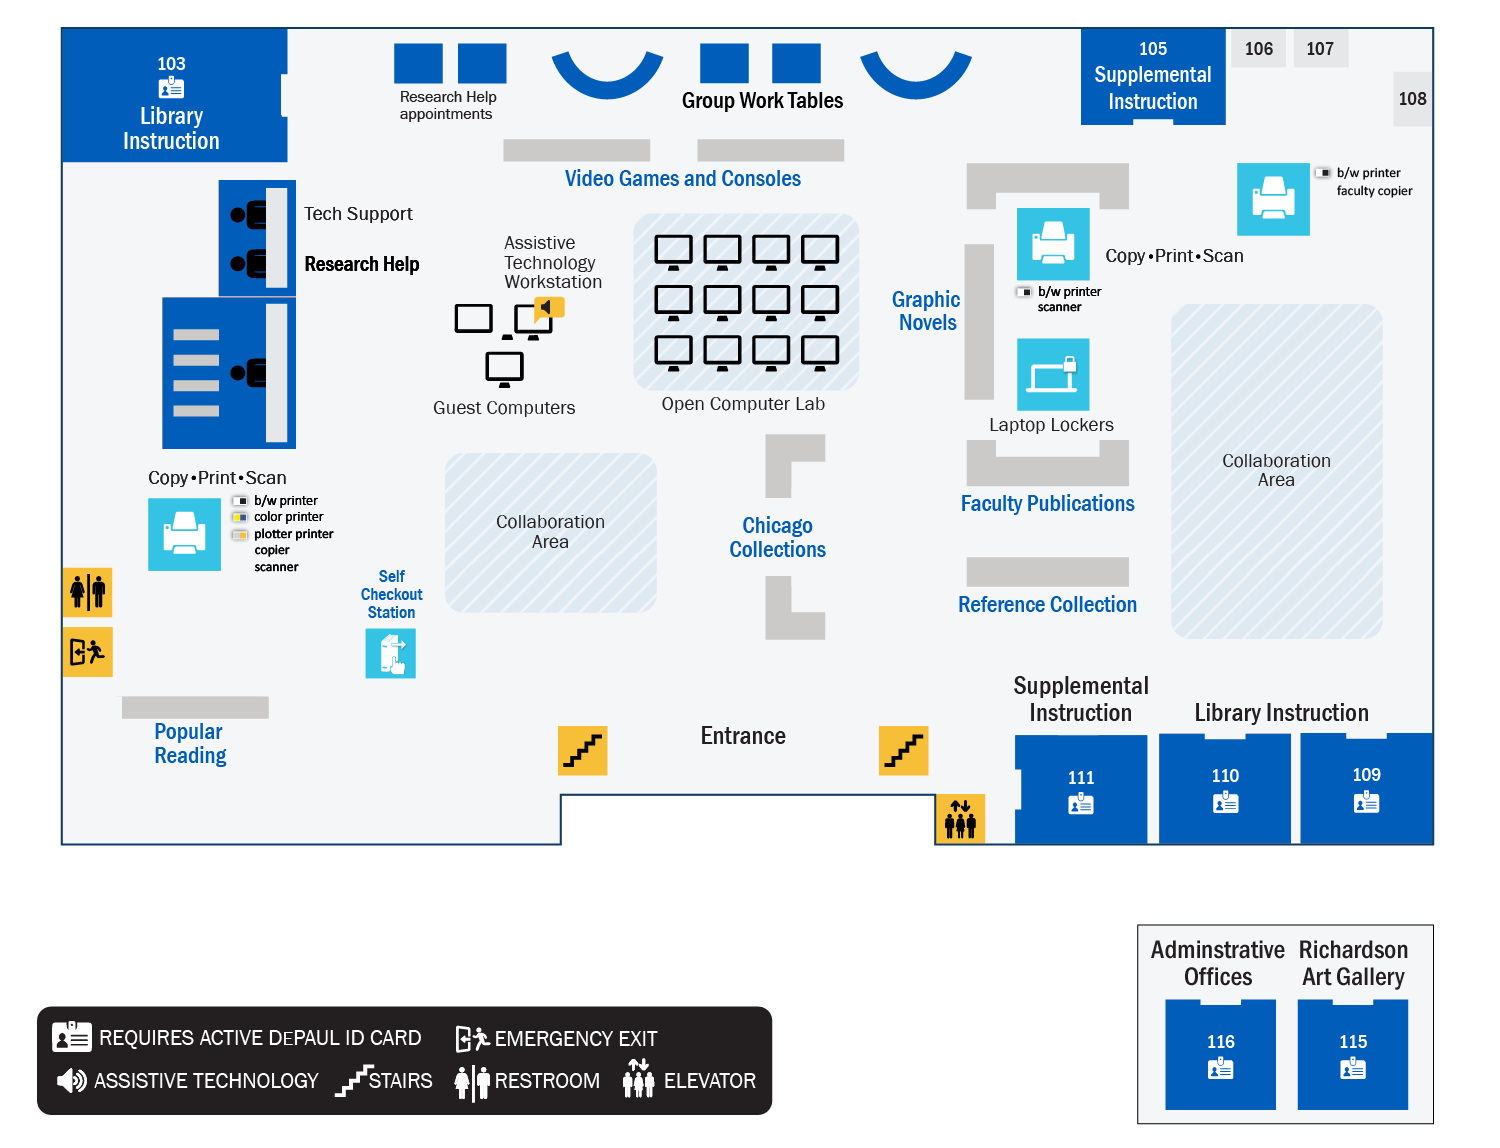
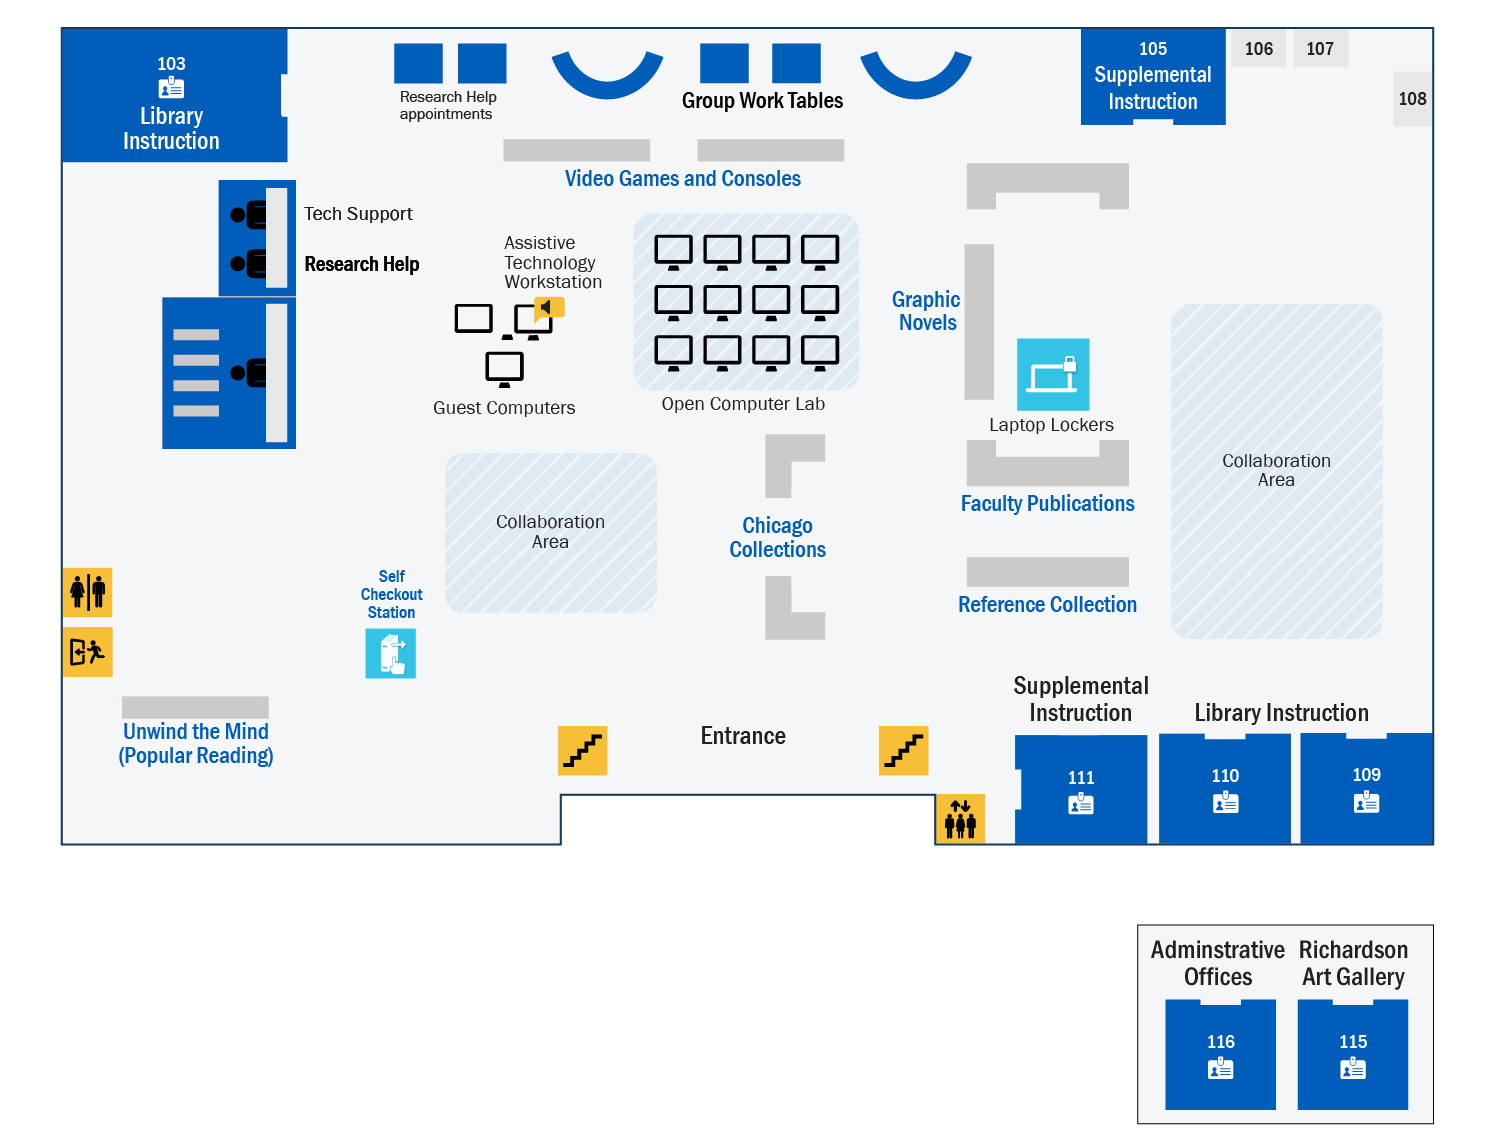
finished -- check in the morning

diff --git a/maps.html b/maps.html
@@ -156,6 +156,7 @@
 					<div class="info">
 						<h3>Spaces</h3>
 							<ul>
+								<li class="li"><a href="#/" onClick="show_info_panel('1_admin');">Administrative Offices</a></li>
 								<li class="li"><a href="#/" onClick="show_info_panel('4_audiovideo');">Audio-Video Viewing & Listening</a></li>
                                 <li class="li"><a href="#/" onClick="show_info_panel('2_core');">Collaborative Research Enviroment</a> </li>
                                 <li class="li"><a href="#/" onClick="show_info_panel('groupstudyrooms');">Group Study Areas (reservable)</a> </li>
@@ -167,6 +168,7 @@
 								<li class="li"><a href="#/" onClick="show_info_panel('quietstudyzones');">Quiet Study Zones</a> </li>
                                 <li class="li"><a href="#/" onClick="show_info_panel('2_researchinformation');">Research & Instruction Services</a> </li>
                                 <li class="li"><a href="#/" onClick="show_info_panel('bathrooms');">Restrooms</a> </li>
+								<li class="li"><a href="#/" onClick="show_info_panel('1_gallery');">Richrdson Art Gallery</a></li>
 								<li class="li"><a href="#/" onClick="show_info_panel('3_300room');">Room 300</a></li>
 								<li class="li"><a href="#/" onClick="show_info_panel('4_stvincent');">St. Vincent DePaul Room</a> </li>
                                 <li class="li"><a href="#/" onClick="show_info_panel('2_studios');">Studios A-G</a> </li>
@@ -202,10 +204,10 @@
                                 <li class="li"><a href="#/" onClick="show_info_panel('2_audiovisual');">Media (CDs, Videos, Microforms)</a> </li>
                                 <li class="li"><a href="#/" onClick="show_info_panel('4_musicscores');">Music Scores</a> </li>
 								<li class="li"><a href="#/" onClick="show_info_panel('2_periodicals');">Periodicals</a> </li>
-                                <li class="li"><a href="#/" onClick="show_info_panel('1_recreational');">Recreational Reading</a> </li>
                                 <li class="li"><a href="#/" onClick="show_info_panel('1_readyreference');">Reference Desk</a> </li>
 								<li class="li"><a href="#/" onClick="show_info_panel('reference');">Reference Collection</a> </li>
 								<li class="li"><a href="#/" onClick="show_info_panel('3_specialcollections');">Special Collections</a> </li>
+                                <li class="li"><a href="#/" onClick="show_info_panel('1_recreational');">Unwind the Mind (Popular Reading)</a> </li>
 							</ul>
 					</div>
 				</div>
@@ -222,6 +224,7 @@
                         <div id="collapse1" class="panel-collapse collapse in">
                           <ul>
 								<li class="li"><a href="#/" onClick="show_info_panel('1_circulationdesk');">Access Services</a> </li>
+								<li class="li"><a href="#/" onClick="show_info_panel('1_admin');">Administrative Offices</a></li>
                                 <li class="li"><a href="#/" onClick="show_info_panel('1_assistivetechnology');">Assistive Technology Workstation</a> </li>
 								<li class="li"><a href="#/" onClick="show_info_panel('1_chicago');">Chicago Collection</a> </li>
                                 <li class="li"><a href="#/" onClick="show_info_panel('computers');">Computers</a> </li>
@@ -229,16 +232,18 @@
                                 <li class="li"><a href="#/" onClick="show_info_panel('1_facultypublications');">Faculty Publications</a> </li>
                                 <li class="li"><a href="#/" onClick="show_info_panel('1_graphicnovels');">Graphic Novels</a> </li>
                                 <li class="li"><a href="#/" onClick="show_info_panel('groupstudyzones');">Group Study Zones</a> </li>
+				                <li class="li"><a href="#/" onClick="show_info_panel('groupstudyrooms');">Group Work Tables (reservable)</a> </li>                                
                                 <li class="li"><a href="#/" onClick="show_info_panel('guestcomputers');">Guest Computers</a> </li>
                                 <li class="li"><a href="#/" onClick="show_info_panel('1_laptoplockers');">Laptop Lockers</a> </li>
 								<li class="li"><a href="#/" onClick="show_info_panel('1_instruction');">Library Instruction</a> </li>
-                                <li class="li"><a href="#/" onClick="show_info_panel('1_popular');">Popular Reading</a> </li>
                                 <li class="li"><a href="#/" onClick="show_info_panel('printers');">Printers</a> </li>
+								<li class="li"><a href="#/" onClick="show_info_panel('1_gallery');">Richrdson Art Gallery</a></li>
                                 <li class="li"><a href="#/" onClick="show_info_panel('reference');">Reference Collection</a> </li>
                                 <li class="li"><a href="#/" onClick="show_info_panel('1_researchhelpdesk');">Research Help Desk</a> </li>
                                 <li class="li"><a href="#/" onClick="show_info_panel('bathrooms');">Restrooms</a> </li>
                                 <li class="li"><a href="#/" onClick="show_info_panel('1_selfcheckout');">Self Checkout Station</a> </li>
                                 <li class="li"><a href="#/" onClick="show_info_panel('1_instruction');">Supplemental Instruction</a> </li>  
+                                <li class="li"><a href="#/" onClick="show_info_panel('1_recreational');">Unwind the Mind (Popular Reading)</a> </li>
                                 <li class="li"><a href="#/" onClick="show_info_panel('1_videogames');">Video Games and Consoles</a> </li>                                
 							</ul>
                         </div>

diff --git a/js/wayfinding.js b/js/wayfinding.js
@@ -17,22 +17,22 @@
 		"copycenters": 		    ["", ["1_copycenter.png", "2_copycenter.png"]],
 		"groupstudyzones": 		["", ["1_groupstudyzone.png", "2_groupstudyzone.png"]],
         "1_assistivetechnology": 	["", ["1_assistivetechnology.png"]],
-		"groupstudyrooms": ["<b>Group Study Rooms and Tables</b><br/><br/><b>Instructions:</b><br/>Reservable for up to 60 minutes. Scan below or go to <span class=\"highlight\">libcal.depaul.edu</span> to make a room reservation, or talk to a library staff member for assistance.<br/><br/><b>Max Capacity:</b><br/>10 People<br/><br/><b>Equipment:</b><br/>Screen - No projector<br><br> <img src=\"http://libservices.org/wayfinding/images/group-study-qr-code.png\" width=\"200\" height=\"200\">", ["2_groupstudy.png", "3_groupstudy.png", "4_groupstudy.png"]],
+		"groupstudyrooms": ["<b>Group Study Rooms and Tables</b><br/><br/><b>Instructions:</b><br/>Reservable for up to 60 minutes. Scan below or go to <span class=\"highlight\">libcal.depaul.edu</span> to make a room reservation, or talk to a library staff member for assistance.<br/><br/><b>Max Capacity:</b><br/>10 People<br/><br/><b>Equipment:</b><br/>Screen - No projector<br><br> <img src=\"http://libservices.org/wayfinding/images/group-study-qr-code.png\" width=\"200\" height=\"200\">", ["1_groupstudy.png","2_groupstudy.png", "3_groupstudy.png", "4_groupstudy.png"]],
 		"printers":				["", ["1_printcenter.png", "2_printcenter.png"]],
 		"reference":				["", ["1_reference.png", "2_reference.png"]],
 		"quietstudyzones": 		["", ["3_quietstudyzone.png", "4_quietstudyzone.png"]],
-		"1_career": 			["", ["1_career.png"]],
+		"1_admin": 			["", ["1_admin.png"]],
         "1_chicago": 			["", ["1_chicago.png"]],
 		"1_circulationdesk": 	["<b>Access Services</b><br/><br/>Patrons can check-out and renew books here.", ["1_circulationdesk.png"]],
 		"1_facultypublications": ["", ["1_facultypublications.png"]],
-		"1_geniussquad": 		["<b>Genius Squad</b><br/><br/>Staffed by current DePaul students, the Genius Squad can assist with:<br/><ul><li>Wireless setup</li><li>Virus and malware removal</li><li>Hardware repair</li><li>RAM upgrades</li><li>Phone configuration for access to e-mail</li><li>A variety of other technical services</li></ul>", ["1_geniussquad.png"]],
+        "1_gallery": 			["", ["1_gallery.png"]],
 		"1_graphicnovels": 		["", ["1_graphicnovels.png"]],
 		"guestcomputers":		["", ["1_guestcomputers.png", "3_guestcomputers.png", "4_guestcomputers.png"]],
         "1_instruction": 		["<b>Library Instruction</b><br/><br/>Library Instruction works with faculty to create customized research instruction sessions based on the needs of courses and assignments. The goal of the instruction program is to help students develop the critical thinking and information literacy skills necessary to conduct effective library research.", ["1_instruction.png"]],
 		"1_learningcommons": 	["<b>Learning Commons</b><br/><br/>The Learning Commons is a student-centered learning environment that provides collaborative peer-education in a central location surrounded by academic resources.<br/><br/><b>Services Offered:</b><br/><ul><li>Tutoring in Chemistry, Math, Psychology, and Languages (Arabic, Chinese, French, Italian, Japanese, Ancient Greek, Russian, and Spanish)</li><li>Study Jams via OMSS<br/><li>Resume, Internship & Job Help through the Career Center</li><li>Supplemental Instruction</li><li>Workshops</li></ul>", ["1_learningcommons.png"]],
         "1_laptoplockers": 		["", ["1_laptoplockers.png"]],
         "1_recreational": 		["", ["1_recreational.png"]],
-        "1_researchhelpdesk": 		["<b>Research Help Desk</b><br/><br/>Research Librarians and Peer Research Tutors help you explore your topic and show you how to search effectively for books, articles and other information (like statistics) in library databases and the web. Researchers can ask for in-depth help, or just get assistance finding a single item.", ["1_researchhelpdesk.png"]],
+        "1_researchhelpdesk": 		["<b>Research Help Desk</b><br/><br/>Research Librarians and Peer Research Tutors help you explore your topic and show you how to search effectively for books, articles and other information (like statistics) in library databases and the web. Researchers can ask for in-depth help, or just get assistance finding a single item.<br><br>There is also lab support available to help with printing and scanning issues.", ["1_researchhelpdesk.png"]],
 		"2_chicago": 			["", ["2_chicago.png"]],
 		"2_circulationdesk": 	["", ["2_circulationdesk.png"]],
         "2_core": 			    ["<b>CoRE - Collaborative Research Enviroment</b><br/><br/><br/>Open plan computing with high-powered, dedicated computer workstations (Mac & PC) conducive to digital mapping, text and data mining, 3-D modelling, and data visualization by single users or small groups.  Includes double, high-solution screens and Cintiq screens.", ["2_core.png"]],
